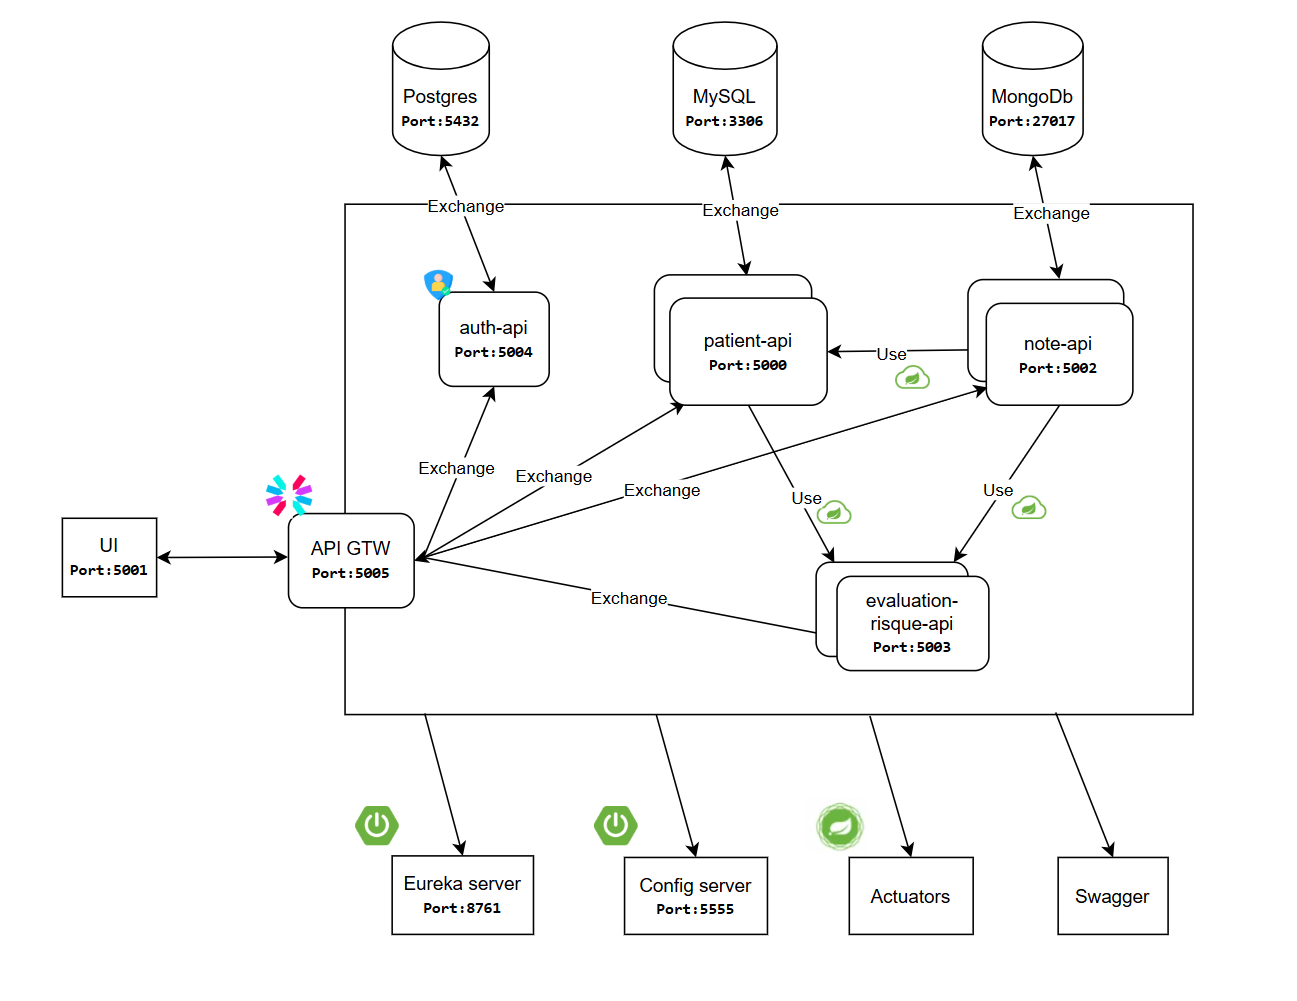
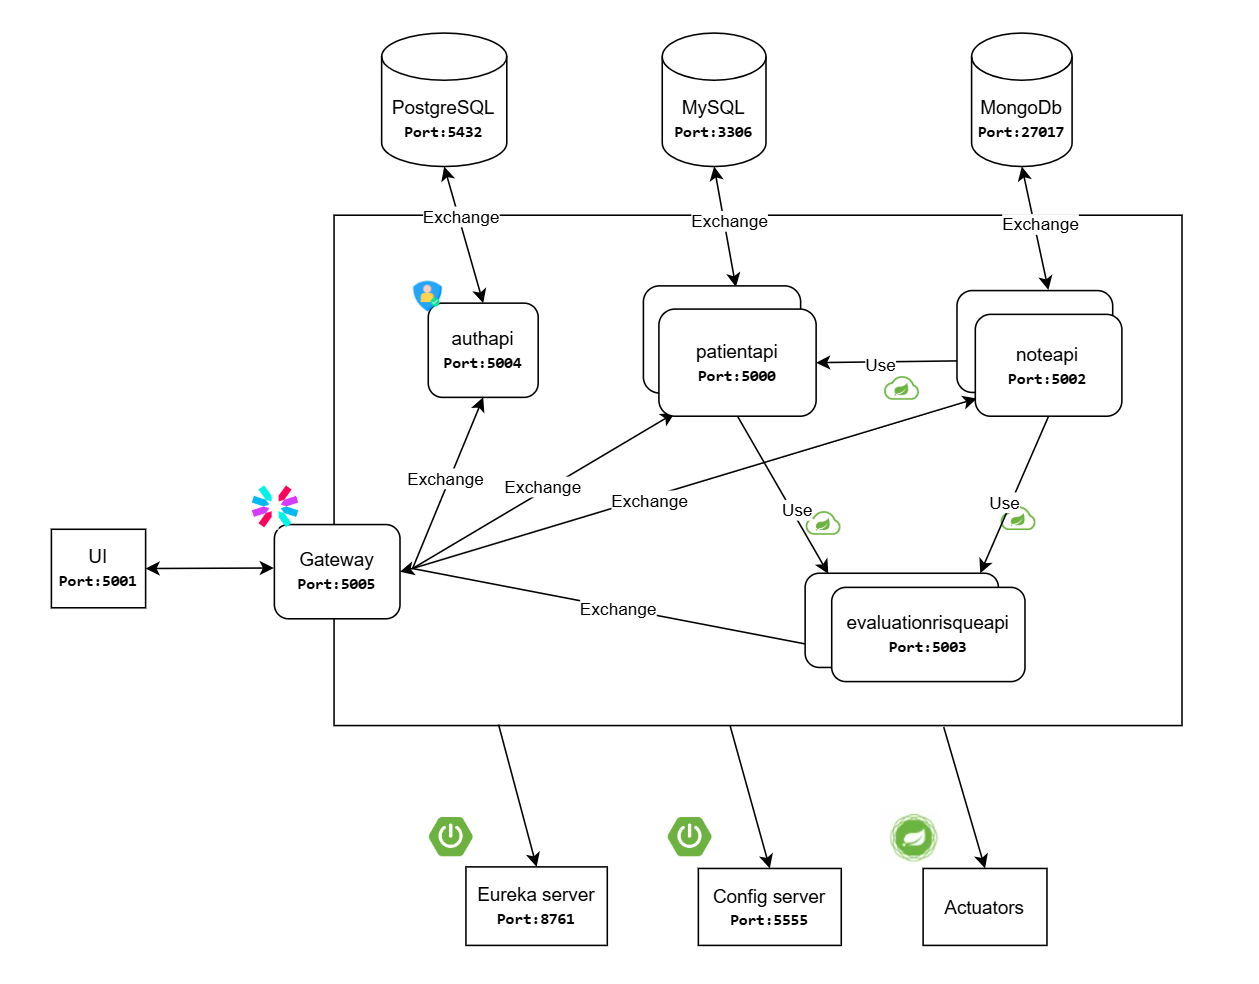
Update README and Schema

diff --git a/README.md b/README.md
@@ -17,7 +17,7 @@
 - **Eureka Server** – Service de découverte (Service Discovery)
 - **Config Server** – Centralisation de la configuration Spring Cloud
 - **Actuator** – Endpoints de monitoring pour chaque microservice (`/actuator/health`)
-- **Auth API** – Gestion des utilisateurs et tokens (MongoDB)
+- **Auth API** – Gestion des utilisateurs et tokens (PostgreSQL)
 - **Patient API** – Gestion des patients (MySQL)
 - **Note API** – Gestion des notes médicales (MongoDB)
 - **Évaluation Risque API** – Analyse de risque de diabète (calculs & logique métier)
@@ -34,9 +34,6 @@
 - [Docker](https://www.docker.com/)
 - [Docker Compose](https://docs.docker.com/compose/)
 - [Docker Desktop](https://docs.docker.com/desktop/)
-- Java 21+
-- Maven 4.0.0+
-
 ---
 
 ## 🗂 Arborescence du projet
@@ -120,24 +117,7 @@ docker compose down -v
     Composant                 URL
 
     Interface utilisateur :	  http://localhost:5001
-    Gateway :     	          http://localhost:5005
     Eureka Server: 	          http://localhost:8761
-    Config Server: 	          http://localhost:5555
-    Auth API :	              http://localhost:5004/actuator	
-    Note API :                http://localhost:5002/actuator	
-    Patient API :	          http://localhost:5000/actuator	
-    Évaluation Risque API :	  http://localhost:5003/actuator	
-
-## Swagger (Documentation des APIs)
-
-Chaque microservice expose sa documentation Swagger :
-
-    Microservice	          Swagger UI 
-
-    Patient API	              http://localhost:5000/swagger-ui.html
-    Note API	              http://localhost:5002/swagger-ui.html
-    Évaluation Risque API     http://localhost:5003/swagger-ui.html
-    Auth API	              http://localhost:5004/swagger-ui.html
 
 ## Commandes Docker utiles
 
